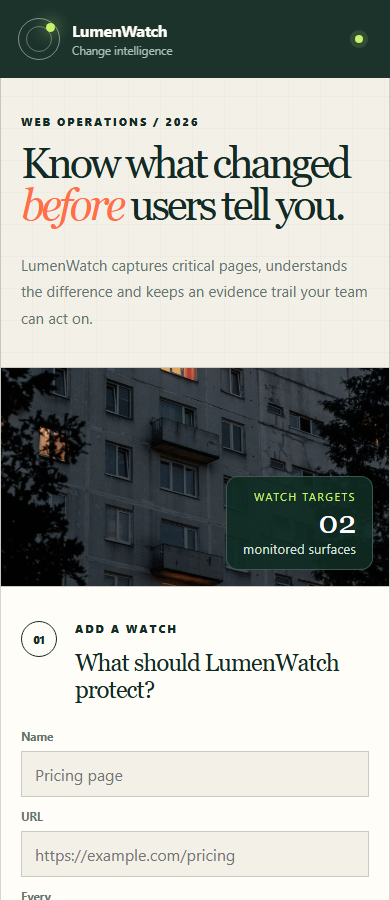
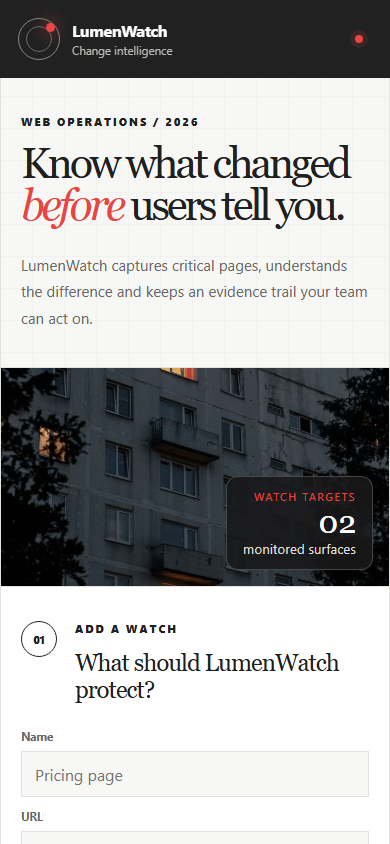
Apply the Swiss Signal palette to the monitor dashboard

Changed region(s): [[0.0, 0.0, 1.0, 1.0]]

diff --git a/app/static/styles.css b/app/static/styles.css
@@ -1,15 +1,15 @@
 :root {
   color-scheme: light;
-  --paper: #f3f0e7;
-  --paper-2: #e9e4d6;
-  --ink: #132b24;
-  --muted: #65756f;
-  --line: rgba(19, 43, 36, 0.18);
-  --lime: #c6f36b;
-  --orange: #ff7048;
-  --mint: #8de2c3;
-  --white: #fffdf7;
-  --shadow: 0 20px 60px rgba(19, 43, 36, 0.09);
+  --paper: #f7f7f5;
+  --paper-2: #e2e2df;
+  --ink: #202020;
+  --muted: #686868;
+  --line: #e2e2df;
+  --signal: #ea4542;
+  --changed: #ea4542;
+  --tint: #fad6d3;
+  --white: #ffffff;
+  --shadow: 0 20px 60px rgba(24, 24, 25, 0.09);
   font-family:
     "Segoe UI",
     ui-sans-serif,
@@ -31,8 +31,8 @@ body {
   margin: 0;
   color: var(--ink);
   background:
-    linear-gradient(rgba(19, 43, 36, 0.025) 1px, transparent 1px),
-    linear-gradient(90deg, rgba(19, 43, 36, 0.025) 1px, transparent 1px),
+    linear-gradient(rgba(24, 24, 25, 0.025) 1px, transparent 1px),
+    linear-gradient(90deg, rgba(24, 24, 25, 0.025) 1px, transparent 1px),
     var(--paper);
   background-size: 32px 32px;
 }
@@ -63,7 +63,7 @@ a {
   min-height: 78px;
   padding: 14px clamp(20px, calc(5vw / var(--page-zoom, 1)), 74px);
   color: var(--white);
-  background: rgba(19, 43, 36, 0.96);
+  background: rgba(24, 24, 25, 0.96);
   backdrop-filter: blur(16px);
 }
 
@@ -84,7 +84,7 @@ a {
 
 .brand small {
   margin-top: 2px;
-  color: #aac0b7;
+  color: #bcbcb8;
   font-size: 0.72rem;
 }
 
@@ -110,9 +110,9 @@ a {
   right: 4px;
   width: 9px;
   height: 9px;
-  background: var(--lime);
+  background: var(--signal);
   border-radius: 50%;
-  box-shadow: 0 0 16px var(--lime);
+  box-shadow: 0 0 16px var(--signal);
 }
 
 nav {
@@ -122,11 +122,11 @@ nav {
 }
 
 nav a {
-  color: #d2dfd9;
+  color: #dededb;
 }
 
 nav a:hover {
-  color: var(--lime);
+  color: var(--signal);
 }
 
 .agent-status {
@@ -134,16 +134,16 @@ nav a:hover {
   display: flex;
   align-items: center;
   gap: 9px;
-  color: #cbdad4;
+  color: #dededb;
   font-size: 0.77rem;
 }
 
 .agent-status span {
   width: 8px;
   height: 8px;
-  background: var(--lime);
+  background: var(--signal);
   border-radius: 50%;
-  box-shadow: 0 0 0 5px rgba(198, 243, 107, 0.13);
+  box-shadow: 0 0 0 5px rgba(234, 69, 66, 0.13);
 }
 
 main {
@@ -192,7 +192,7 @@ h1 {
 }
 
 h1 em {
-  color: var(--orange);
+  color: var(--changed);
   font-weight: inherit;
 }
 
@@ -226,7 +226,7 @@ h2 {
   position: absolute;
   width: 360px;
   height: 360px;
-  background: var(--lime);
+  background: var(--signal);
   filter: blur(130px);
   opacity: 0.16;
 }
@@ -299,7 +299,7 @@ select {
 input:focus,
 select:focus {
   border-color: var(--ink);
-  box-shadow: 0 0 0 3px rgba(19, 43, 36, 0.08);
+  box-shadow: 0 0 0 3px rgba(24, 24, 25, 0.08);
 }
 
 .checkbox-label {
@@ -334,7 +334,7 @@ button {
 
 button:hover {
   color: var(--ink);
-  background: var(--lime);
+  background: var(--signal);
 }
 
 button:disabled {
@@ -350,7 +350,7 @@ button:disabled {
 }
 
 .message.error {
-  color: #b5321f;
+  color: #9e3330;
 }
 
 .metrics {
@@ -371,7 +371,7 @@ button:disabled {
 }
 
 .metrics article.accent {
-  background: var(--lime);
+  background: var(--signal);
 }
 
 .metrics span,
@@ -432,8 +432,8 @@ button:disabled {
   padding: 23px;
   flex-direction: column;
   border: 1px solid var(--line);
-  background: rgba(255, 253, 247, 0.7);
-  box-shadow: 0 0 0 rgba(19, 43, 36, 0);
+  background: rgba(255, 255, 255, 0.7);
+  box-shadow: 0 0 0 rgba(24, 24, 25, 0);
   transition: 180ms ease;
 }
 
@@ -469,9 +469,9 @@ button:disabled {
 .target-dot {
   width: 11px;
   height: 11px;
-  background: var(--mint);
+  background: var(--tint);
   border-radius: 50%;
-  box-shadow: 0 0 0 7px rgba(141, 226, 195, 0.19);
+  box-shadow: 0 0 0 7px rgba(250, 214, 211, 0.19);
 }
 
 .target-meta {
@@ -528,8 +528,8 @@ button:disabled {
 }
 
 .severity.high {
-  color: #c33d25;
-  background: rgba(255, 112, 72, 0.11);
+  color: #9e3330;
+  background: rgba(234, 69, 66, 0.11);
 }
 
 .severity.medium {
@@ -538,14 +538,14 @@ button:disabled {
 }
 
 .severity.low {
-  color: #20745e;
-  background: rgba(141, 226, 195, 0.15);
+  color: #444444;
+  background: rgba(250, 214, 211, 0.15);
 }
 
 .severity.none,
 .severity.baseline {
   color: var(--muted);
-  background: rgba(101, 117, 111, 0.08);
+  background: rgba(120, 120, 120, 0.08);
 }
 
 .activity-grid {
@@ -595,7 +595,7 @@ button:disabled {
 }
 
 .timeline-event:hover .event-title {
-  color: var(--orange);
+  color: var(--changed);
 }
 
 .event-time {
@@ -631,12 +631,12 @@ button:disabled {
 }
 
 .diff-panel .overline {
-  color: var(--lime);
+  color: var(--signal);
 }
 
 .detail-summary {
   margin: 23px 0;
-  color: #bad0c7;
+  color: #bcbcb8;
   line-height: 1.65;
 }
 
@@ -662,7 +662,7 @@ button:disabled {
 
 .detail-stats span {
   margin-bottom: 8px;
-  color: #8ba399;
+  color: #bcbcb8;
   font-size: 0.66rem;
 }
 
@@ -681,7 +681,7 @@ button:disabled {
 
 .word-diff h3 {
   margin-bottom: 11px;
-  color: #9fb6ad;
+  color: #bcbcb8;
   font-size: 0.7rem;
   letter-spacing: 0.08em;
   text-transform: uppercase;
@@ -702,13 +702,13 @@ button:disabled {
 }
 
 .word-list.added span {
-  color: #dffff2;
-  background: rgba(141, 226, 195, 0.19);
+  color: #fad6d3;
+  background: rgba(250, 214, 211, 0.19);
 }
 
 .word-list.removed span {
-  color: #ffded5;
-  background: rgba(255, 112, 72, 0.17);
+  color: #fad6d3;
+  background: rgba(234, 69, 66, 0.17);
   text-decoration: line-through;
 }
 
@@ -717,9 +717,9 @@ button:disabled {
   margin: 25px 0 0;
   padding: 17px;
   overflow: auto;
-  color: #9fb6ad;
+  color: #bcbcb8;
   border: 1px solid rgba(255, 255, 255, 0.14);
-  background: #0c201a;
+  background: #181819;
   font-family: ui-monospace, SFMono-Regular, Consolas, monospace;
   font-size: 0.72rem;
   line-height: 1.55;
@@ -886,7 +886,7 @@ footer strong {
   position: relative;
   min-height: 360px;
   overflow: hidden;
-  background: #17352c;
+  background: #181819;
 }
 .hero-photo {
   position: absolute;
@@ -902,7 +902,7 @@ footer strong {
   padding: 18px 24px;
   border: 1px solid #ffffff33;
   border-radius: 12px;
-  background: #102c24e6;
+  background: #181819e6;
   color: #fff;
   text-align: right;
 }
@@ -914,7 +914,7 @@ footer strong {
 .visual-caption span {
   font-size: 11px;
   letter-spacing: 0.14em;
-  color: #c6f36b;
+  color: #ea4542;
 }
 .visual-caption strong {
   font:
@@ -922,7 +922,7 @@ footer strong {
     serif;
 }
 .visual-caption small {
-  color: #d3e3db;
+  color: #dededb;
 }
 @media (max-width: 1050px) and (max-width: 800px), (min-width: 801px) and (max-width: 1312.5px) {
   .hero-visual {
